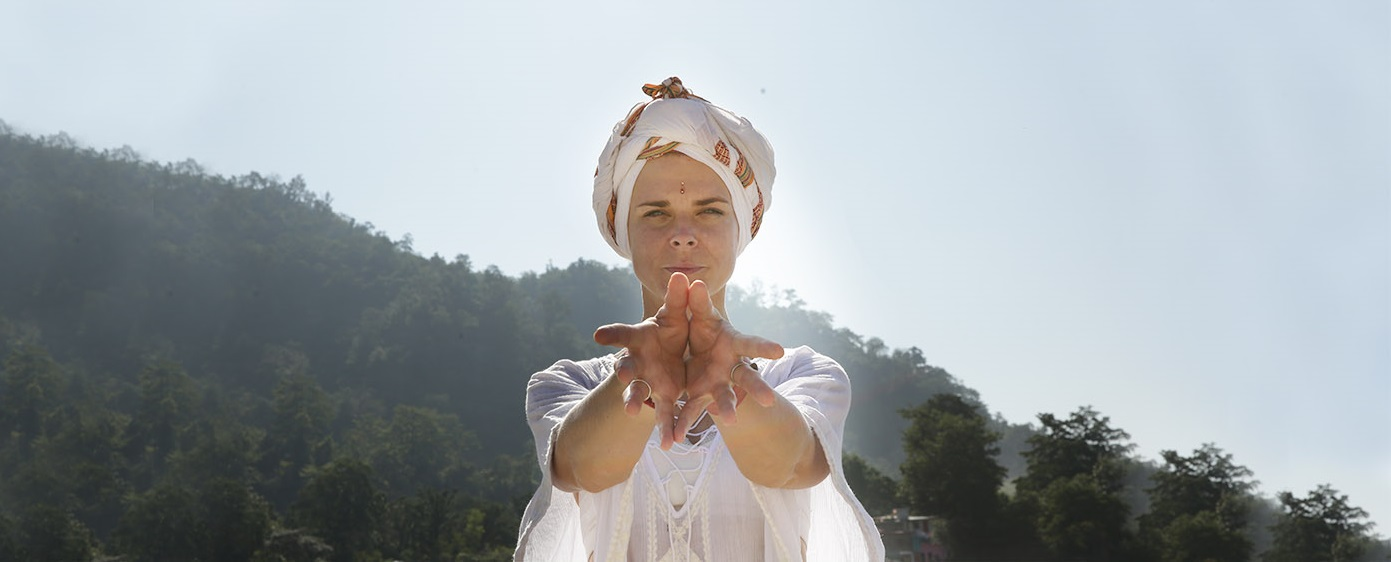
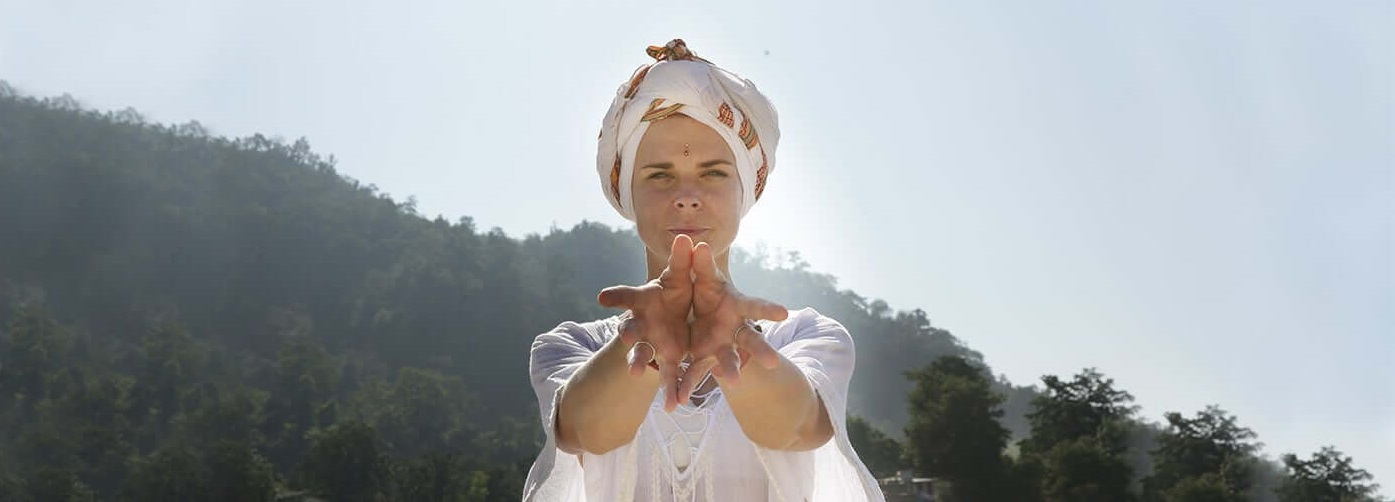
Add noreferrer to external links as per lighthouse report4

diff --git a/index.html b/index.html
@@ -2,6 +2,7 @@
 <html lang="en">
 
 <head>
+    <meta name="Description" content="Alternative and Holistic Healing Website">
     <meta charset="UTF-8" />
     <meta name="viewport" content="width=device-width, initial-scale=1.0" />
     <link rel="stylesheet" href="https://maxcdn.bootstrapcdn.com/bootstrap/4.2.1/css/bootstrap.min.css"
@@ -80,10 +81,10 @@
             </div>
 
             <div class="col-xs-12 col-lg-6 owner-text">
-                <h5>
+                <h4>
                     Most people know me as Ana but as a Kundalini teacher I am proud to
                     carry the name Harpreet Seva Kaur.<br /><br />I began my yoga
-                    journey 6 yeas ago and have been blessed with many inspiring
+                    journey 6 years ago and have been blessed with many inspiring
                     teachers to support me on my path. I have been practicing Kundalini
                     yoga for the last 6 years and have supplemented my practice with
                     Hatha Raja, Tantra, Bhakti, Yin and other styles.<br /><br />
@@ -96,7 +97,7 @@
                     Breathwork and Sound Healing)...<br /><br />
                     I look forward to meeting you <br /><br />
                     Sat Nam
-                </h5>
+                </h4>
                 <br />
             </div>
         </div>
@@ -112,7 +113,7 @@
         <div class="row">
             <div class="col-12 col-md-6">
                 <div class="teacher-training">
-                    <h5>Teacher Training</h5>
+                    <h4>Teacher Training</h4>
                     <ul>
                         <li>
                             200 Hour Yoga Teacher Training Himalayan Yoga Bliss<br />
@@ -133,7 +134,7 @@
             </div>
             <div class="col-12 col-md-6">
                 <div class="teaching">
-                    <h5>Teaching</h5>
+                    <h4>Teaching</h4>
                     <ul>
                         <li>Online Yoga with Harpreet: March 2019-present</li>
                         <li>Little Bird Studio, Rishikesh: December 2018 - present</li>
@@ -253,7 +254,7 @@
                 </h5>
                 <h5><i class="fa fa-phone"></i> +353 (0)85 833 5702
                 </h5>
-                <h5><i class="fa fa-instagram"></i><a href="https://www.instagram.com" target="_blank">
+                <h5><i class="fa fa-instagram"></i><a href="https://www.instagram.com" target="_blank" rel="noreferrer">
                         @eleventh_embodiment</a>
                 </h5>
             </div>
@@ -268,13 +269,13 @@
                 <h4>Follow Me:</h4>
                 <ul class="social-media">
                     <li>
-                        <a href="https://www.facebook.com" target="_blank"><i class="fa fa-facebook"></i></a>
+                        <a href="https://www.facebook.com" target="_blank" rel="noreferrer"><i class="fa fa-facebook"></i></a>
                     </li>
                     <li>
-                        <a href="https://www.youtube.com" target="_blank"><i class="fa fa-youtube"></i></a>
+                        <a href="https://www.youtube.com" target="_blank" rel="noreferrer"><i class="fa fa-youtube"></i></a>
                     </li>
                     <li>
-                        <a href="https://www.instagram.com" target="_blank"><i class="fa fa-instagram"></i></a>
+                        <a href="https://www.instagram.com" target="_blank" rel="noreferrer"><i class="fa fa-instagram"></i></a>
                     </li>
                 </ul>
             </div>

diff --git a/gallery.html b/gallery.html
@@ -133,13 +133,15 @@
                 </h5>
                 <h5><i class="fa fa-phone"></i> +353 (0)85 833 5702
                 </h5>
-                <h5><i class="fa fa-instagram"></i><a href="https://www.instagram.com" target="_blank">
+                <h5><i class="fa fa-instagram"></i><a href="https://www.instagram.com" target="_blank" rel="noreferrer">
                         @eleventh_embodiment</a>
                 </h5>
             </div>
             <div class="col-12 col-md-12 col-lg-4 newsletter-heading">
-                <h4>Receive a FREE private session of your choice when you sign up for my newsletter!</h4>
-                <form><input class="newsletter-input" type="email" placeholder="Enter your e-mail">
+                
+                <form>
+                    <h4>Receive a FREE private session of your choice when you sign up for my newsletter!</h4>
+                    <input class="newsletter-input" type="email" placeholder="Enter your e-mail">
                     <button type="submit">Send</button>
                 </form>
             </div>
@@ -148,13 +150,13 @@
                 <h4>Follow Me:</h4>
                 <ul class="social-media">
                     <li>
-                        <a href="https://www.facebook.com" target="_blank"><i class="fa fa-facebook"></i></a>
+                        <a href="https://www.facebook.com" target="_blank" rel="noreferrer"><i class="fa fa-facebook"></i></a>
                     </li>
                     <li>
-                        <a href="https://www.youtube.com" target="_blank"><i class="fa fa-youtube"></i></a>
+                        <a href="https://www.youtube.com" target="_blank" rel="noreferrer"><i class="fa fa-youtube"></i></a>
                     </li>
                     <li>
-                        <a href="https://www.instagram.com" target="_blank"><i class="fa fa-instagram"></i></a>
+                        <a href="https://www.instagram.com" target="_blank" rel="noreferrer"><i class="fa fa-instagram"></i></a>
                     </li>
                 </ul>
             </div>

diff --git a/what-i-do.html b/what-i-do.html
@@ -355,13 +355,15 @@
                 </h5>
                 <h5><i class="fa fa-phone"></i> +353 (0)85 833 5702
                 </h5>
-                <h5><i class="fa fa-instagram"></i><a href="https://www.instagram.com" target="_blank">
+                <h5><i class="fa fa-instagram"></i><a href="https://www.instagram.com" target="_blank" rel="noreferrer">
                         @eleventh_embodiment</a>
                 </h5>
             </div>
             <div class="col-12 col-md-12 col-lg-4 newsletter-heading">
-                <h4>Receive a FREE private session of your choice when you sign up for my newsletter!</h4>
-                <form><input class="newsletter-input" type="email" placeholder="Enter your e-mail">
+                
+                <form>
+                    <h4>Receive a FREE private session of your choice when you sign up for my newsletter!</h4>
+                    <input class="newsletter-input" type="email" placeholder="Enter your e-mail">
                     <button type="submit">Send</button>
                 </form>
             </div>
@@ -370,13 +372,13 @@
                 <h4>Follow Me:</h4>
                 <ul class="social-media">
                     <li>
-                        <a href="https://www.facebook.com" target="_blank"><i class="fa fa-facebook"></i></a>
+                        <a href="https://www.facebook.com" target="_blank" rel="noreferrer"><i class="fa fa-facebook"></i></a>
                     </li>
                     <li>
-                        <a href="https://www.youtube.com" target="_blank"><i class="fa fa-youtube"></i></a>
+                        <a href="https://www.youtube.com" target="_blank" rel="noreferrer"><i class="fa fa-youtube"></i></a>
                     </li>
                     <li>
-                        <a href="https://www.instagram.com" target="_blank"><i class="fa fa-instagram"></i></a>
+                        <a href="https://www.instagram.com" target="_blank" rel="noreferrer"><i class="fa fa-instagram"></i></a>
                     </li>
                 </ul>
             </div>

diff --git a/events.html b/events.html
@@ -125,7 +125,7 @@
                 <h3><i class="fa fa-bed"></i> Accommodation:</h3>
                 <br />
                 <p>
-                    <a href="https://www.cubagoa.com/pages/our-properties/palolem-beach-resort" target="_blank">Palolem
+                    <a href="https://www.cubagoa.com/pages/our-properties/palolem-beach-resort" target="_blank" rel="noreferrer">Palolem
                         Beach Resort</a><br />
                     Check-in Time: 12:00 <br />
                     Check-out Time: 12:00 <br />
@@ -256,7 +256,7 @@
                 </h5>
                 <h5><i class="fa fa-phone"></i> +353 (0)85 833 5702
                 </h5>
-                <h5><i class="fa fa-instagram"></i><a href="https://www.instagram.com" target="_blank">
+                <h5><i class="fa fa-instagram"></i><a href="https://www.instagram.com" target="_blank" rel="noreferrer">
                         @eleventh_embodiment</a>
                 </h5>
             </div>
@@ -271,13 +271,13 @@
                 <h4>Follow Me:</h4>
                 <ul class="social-media">
                     <li>
-                        <a href="https://www.facebook.com" target="_blank"><i class="fa fa-facebook"></i></a>
+                        <a href="https://www.facebook.com" target="_blank" rel="noreferrer"><i class="fa fa-facebook"></i></a>
                     </li>
                     <li>
-                        <a href="https://www.youtube.com" target="_blank"><i class="fa fa-youtube"></i></a>
+                        <a href="https://www.youtube.com" target="_blank" rel="noreferrer"><i class="fa fa-youtube"></i></a>
                     </li>
                     <li>
-                        <a href="https://www.instagram.com" target="_blank"><i class="fa fa-instagram"></i></a>
+                        <a href="https://www.instagram.com" target="_blank" rel="noreferrer"><i class="fa fa-instagram"></i></a>
                     </li>
                 </ul>
             </div>

diff --git a/contact.html b/contact.html
@@ -88,12 +88,12 @@
                 </h5>
                 <h5><i class="fa fa-phone"></i> +353 (0)85 833 5702
                 </h5>
-                <h5><i class="fa fa-instagram"></i><a href="https://www.instagram.com" target="_blank">
+                <h5><i class="fa fa-instagram"></i><a href="https://www.instagram.com" target="_blank" rel="noreferrer">
                         @eleventh_embodiment</a>
                 </h5>
             </div>
             <div class="col-12 col-md-12 col-lg-4 newsletter-heading">
-                <h4>Receive a FREE private session of your choice when you sign up for my newsletter!</h4>
+                <label for="newsletter-input"><h4>Receive a FREE private session of your choice when you sign up for my newsletter!</h4></label>
                 <form><input class="newsletter-input" type="email" placeholder="Enter your e-mail">
                     <button type="submit">Send</button>
                 </form>
@@ -103,13 +103,13 @@
                 <h4>Follow Me:</h4>
                 <ul class="social-media">
                     <li>
-                        <a href="https://www.facebook.com" target="_blank"><i class="fa fa-facebook"></i></a>
+                        <a href="https://www.facebook.com" target="_blank" rel="noreferrer"><i class="fa fa-facebook"></i></a>
                     </li>
                     <li>
-                        <a href="https://www.youtube.com" target="_blank"><i class="fa fa-youtube"></i></a>
+                        <a href="https://www.youtube.com" target="_blank" rel="noreferrer"><i class="fa fa-youtube"></i></a>
                     </li>
                     <li>
-                        <a href="https://www.instagram.com" target="_blank"><i class="fa fa-instagram"></i></a>
+                        <a href="https://www.instagram.com" target="_blank" rel="noreferrer"><i class="fa fa-instagram"></i></a>
                     </li>
                 </ul>
             </div>

diff --git a/assets/css/style.css b/assets/css/style.css
@@ -81,7 +81,7 @@ body {
 .hero-container {
 	max-width: 100%;
 	height: 750px;
-	background: url("../images/hero.jpg") no-repeat center center;
+	background: url("../images/heroo.jpg") no-repeat center center;
 	-webkit-background-size: cover;
 	-moz-background-size: cover;
 	-o-background-size: cover;
@@ -158,11 +158,13 @@ body {
 	margin-bottom: 30px;
 }
 
-.owner-text {
+.owner-text h4{
 	text-align: justify;
 	padding-right: 50px;
-	color: #584628;
+	color: hsla(38, 38%, 25%, 0.89);
 }
+
+
 
 .experience {
 	margin-top: 50px;
@@ -176,8 +178,9 @@ body {
 	margin-bottom: 50px;
 }
 
-.teacher-training h5,
-.teaching h5 {
+.teacher-training h4,
+.teaching h4 {
+    color: hsla(38, 38%, 25%, 0.89);
 	text-align: center;
 	padding-bottom: 20px;
 	font-weight: 600;
@@ -195,7 +198,7 @@ body {
 	margin-top: 50px;
 }
 
-.yoga-text {
+.yoga-text  {
 	color: hsla(38, 38%, 25%, 0.89);
 	font-size: larger;
 	padding-left: 20px;
@@ -203,6 +206,8 @@ body {
 	margin-top: 20px;
 	text-align: justify;
 }
+
+
 
 .yoga-btn {
 	letter-spacing: 1px;
@@ -760,7 +765,11 @@ h4 {
 		text-align: justify;
 		padding: 25px;
 		color: hsla(38, 38%, 25%, 0.89);
-	}
+    }
+    
+    .owner-text h4 {
+        color: #584628;
+    }
 	.title-text {
 		text-align: center;
 		color: #c4881be3;
@@ -991,7 +1000,11 @@ h4 {
 		justify-items: center;
 		margin-top: 40px;
 		margin-bottom: 50px;
-	}
+    }
+    
+    .btn-class-shaman {
+        margin-top: 30px;
+    }
 	/* -----------------------------------------------Events Page --------------------------------*/
 	.video-position video {
 		width: 70%;
